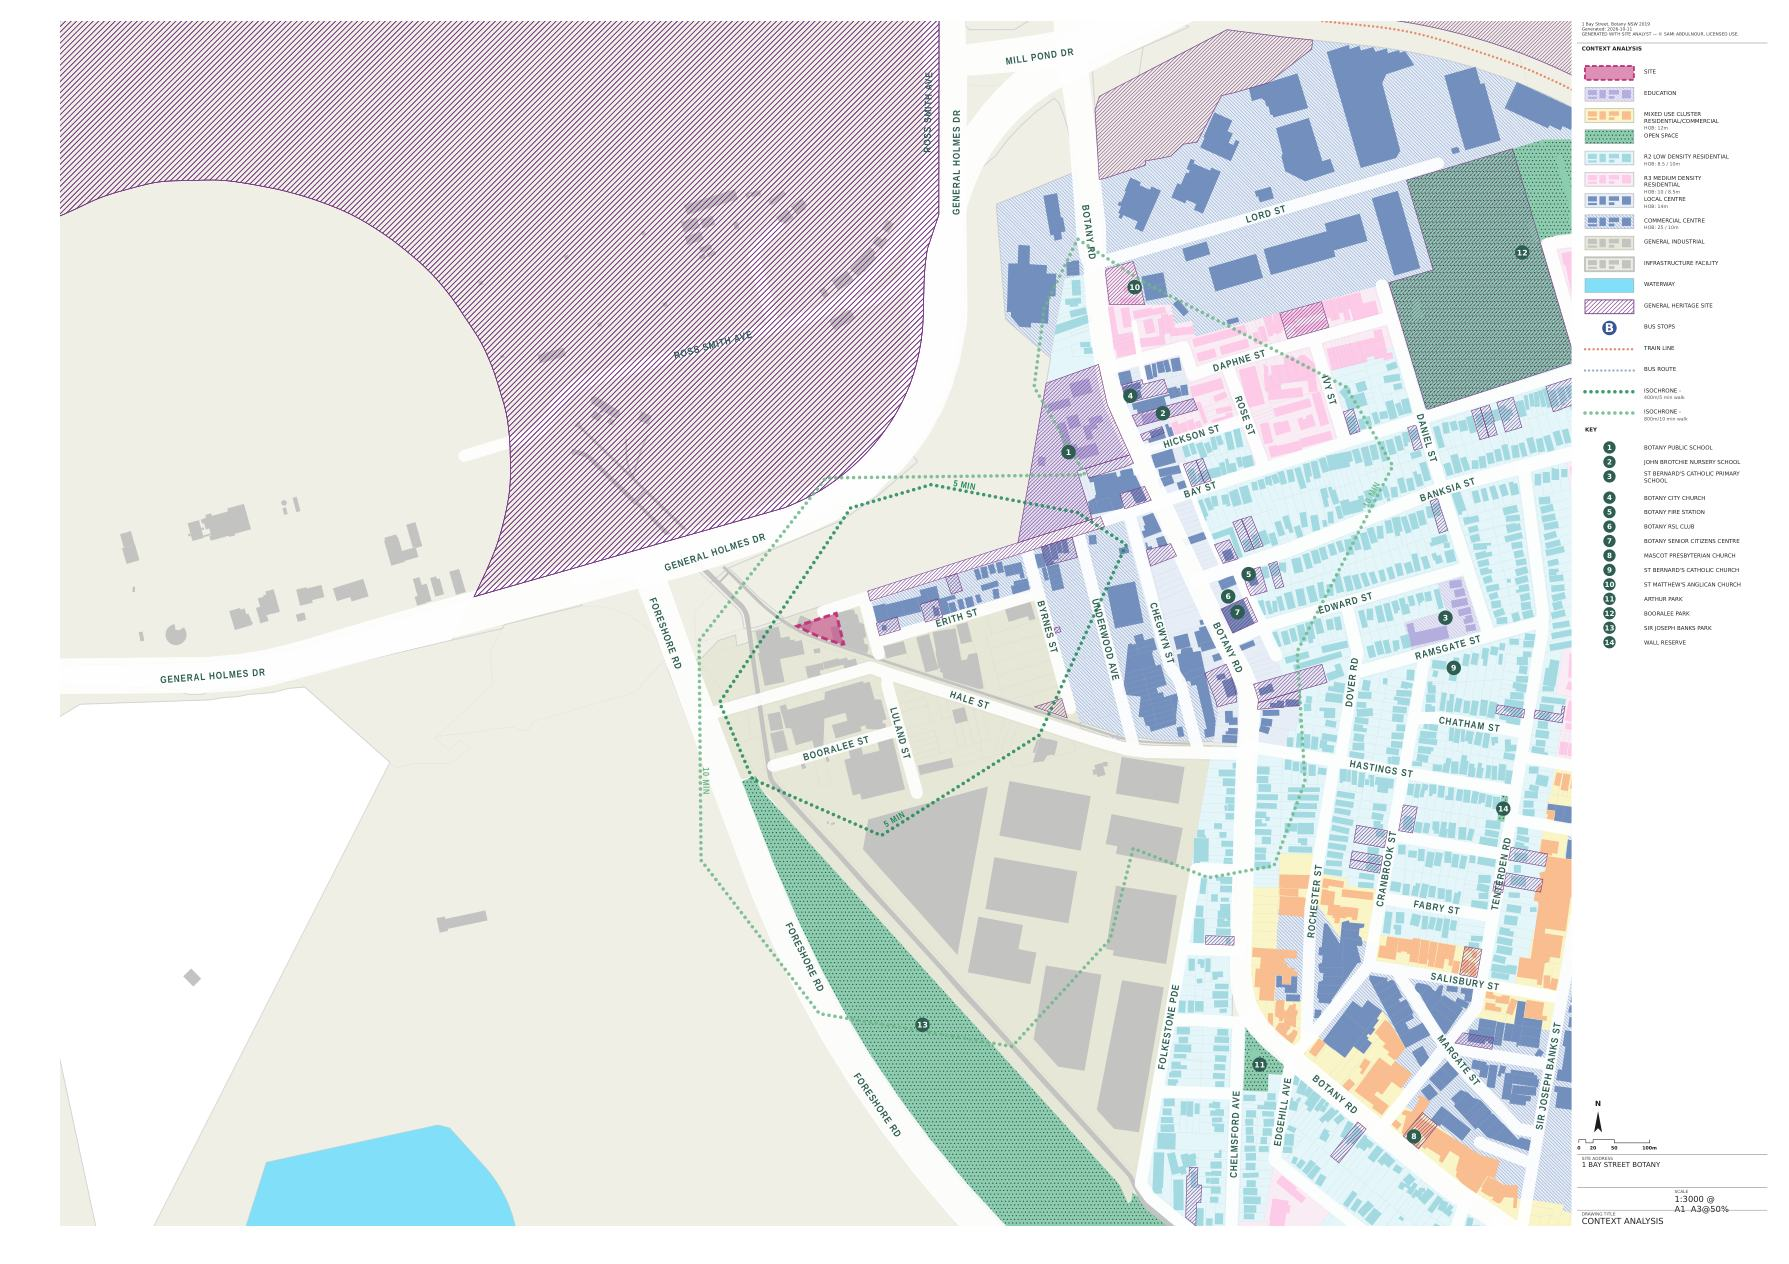
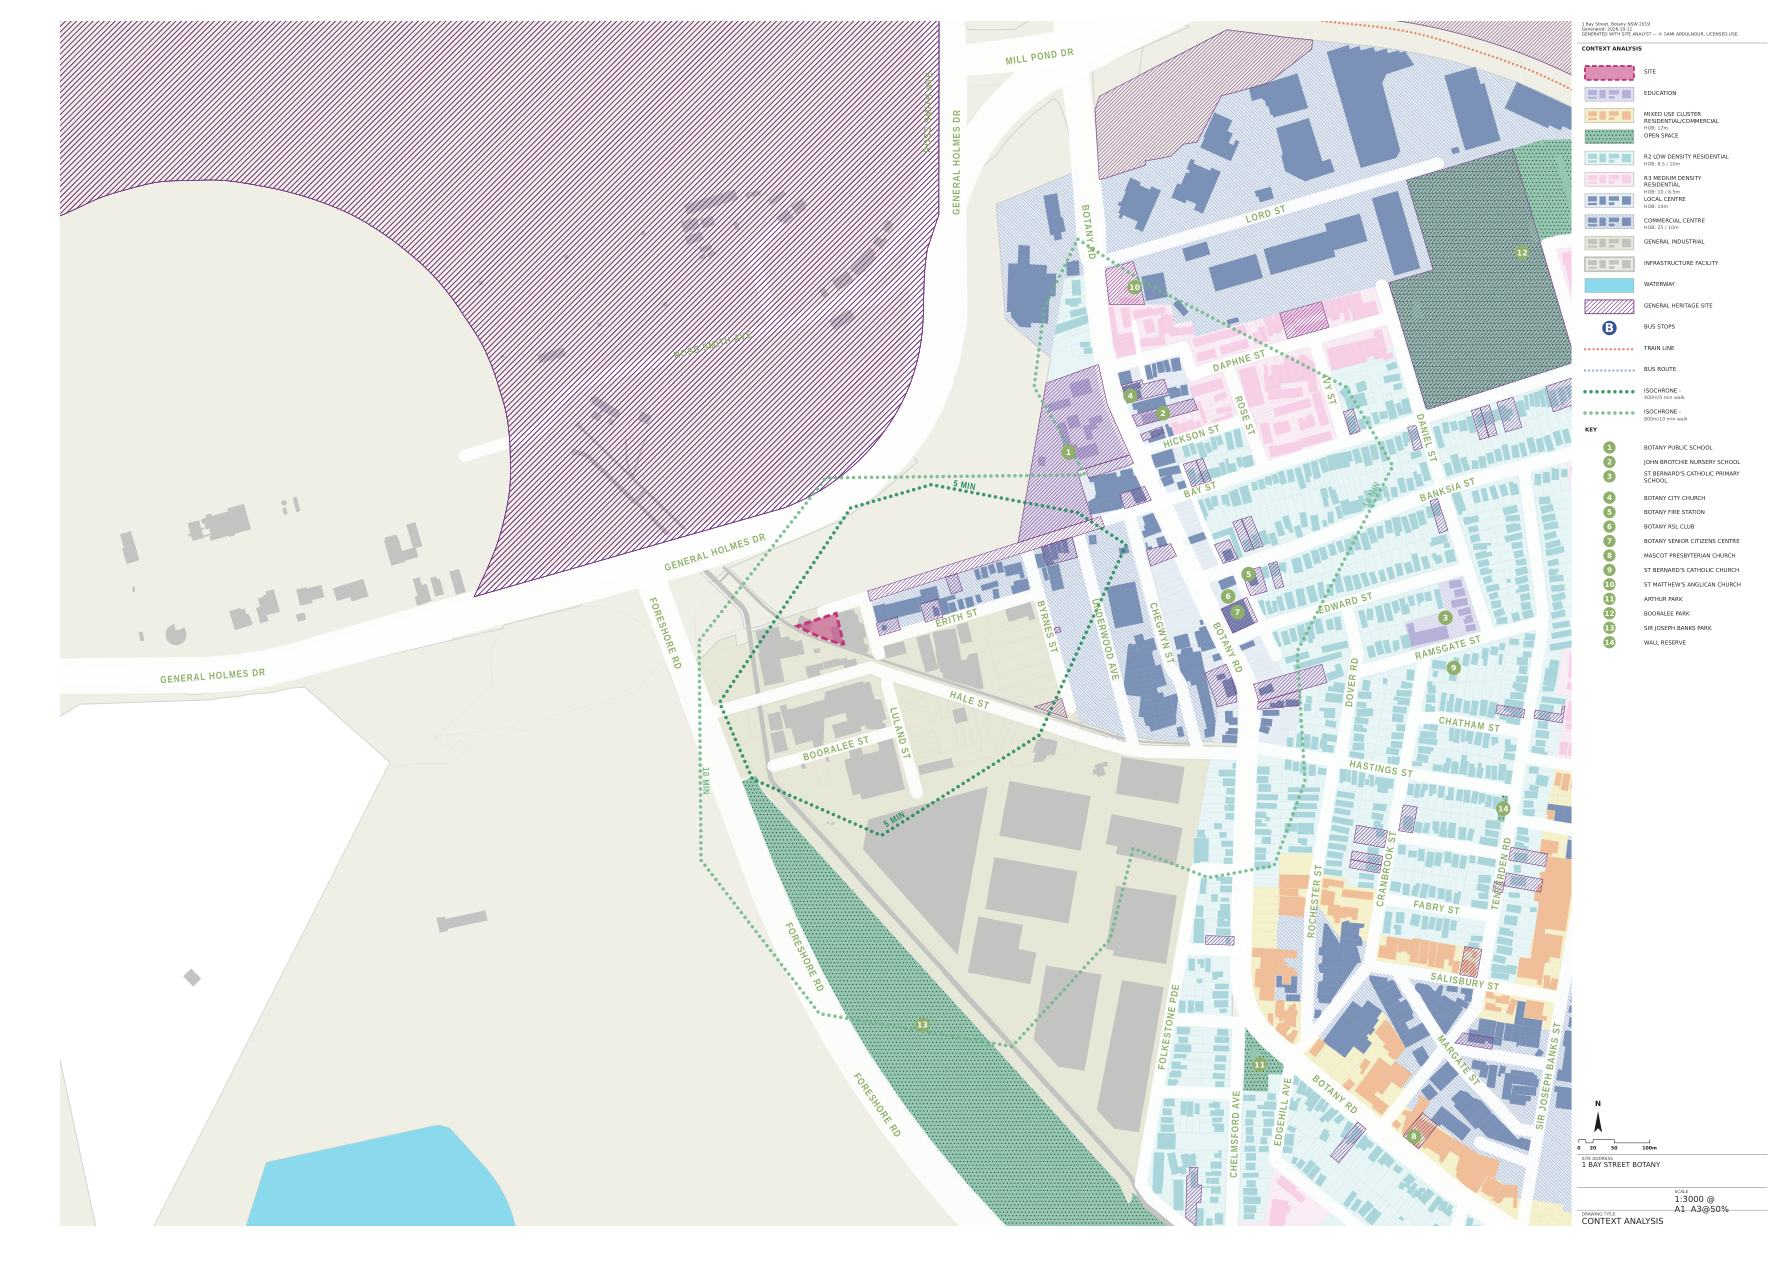
Kingfisher: ease the palette's saturation, light green street names and numbers
Every sampled colour loses about a fifth of its saturation, lightness kept.
Street names and the numbered place discs move from the deep green to a light
leaf green in the hue of the reference's fields.

Claude-Session: https://claude.ai/code/session_01RgQLhzf6Uiv4rCaYoXs4QT

diff --git a/src/render/template.ts b/src/render/template.ts
@@ -153,16 +153,18 @@ const GROTESK = "'DejaVu Sans', Verdana, 'Liberation Sans', sans-serif";
 // retail are the blue family (told apart by texture), the institutions
 // lavender, industry grey on stone, water the bright cyan, heritage a purple
 // cross-hatch.
+// The sampled colours are printed here with their saturation eased by about
+// a fifth (lightness kept), so the sheet sits a little quieter than the image.
 const F2 = {
-  pink: '#fdcae9', pinkGround: '#faecf4',
-  coral: '#fcbbab', coralGround: '#f8eae6',
-  orange: '#fabd90', orangeGround: '#fbe6d6', yellowGround: '#faf5c8',
-  mint: '#8dceb1',
-  cyan: '#a4dbe2', cyanGround: '#e5f7fa',
-  blue: '#7490bf', blueGround: '#e6eef8',
-  violet: '#b4aede', violetGround: '#e8e6f5',
+  pink: '#f8cfe8', pinkGround: '#f9edf4',
+  coral: '#f5bfb2', coralGround: '#f6ebe8',
+  orange: '#f0be9a', orangeGround: '#f8e6d9', yellowGround: '#f6f1cc',
+  mint: '#93c8b0',
+  cyan: '#aad7dc', cyanGround: '#e7f6f8',
+  blue: '#7b92b8', blueGround: '#e8eef6',
+  violet: '#b7b2da', violetGround: '#e9e7f4',
   grey: '#c4c5c1', stoneGround: '#e8e8d8',
-  water: '#81e0f9', magenta: '#c2367c', purple: '#753583', dots: '#1c1c1c',
+  water: '#8cdaee', magenta: '#c2367c', purple: '#753583', dots: '#1c1c1c',
 };
 
 const KINGFISHER_CATEGORIES: Category[] = [
@@ -223,7 +225,9 @@ export const TEMPLATES: Template[] = [
     categories: FLAMINGO_CATEGORIES },
   { id: 'kingfisher', label: 'Kingfisher', note: 'the masterplan palette: pale zone grounds with the buildings in each family\'s strong colour',
     font: GROTESK, streetFont: NARROW, textScale: 0.96,
-    ink: '#1c1c1c', streetInk: '#2f5f52', rule: '#8a8a8a',
+    ink: '#1c1c1c',
+    streetInk: '#8faf6a',   // a light leaf green, in the hue of the reference's fields
+    rule: '#8a8a8a',
     site: F2.magenta, dimension: '#56616b', wind: '#87959d', sun: '#efe8d4', road: F2.grey, water: F2.water,
     transit: '#365696', rail: '#e8835e', walk5: '#1f8a5a', walk10: '#6fb88c', busRoute: '#5b8fd6', heritage: F2.purple,
     isochrone: 'dotted', roundel: 'solid', busLine: 'dotted', railLine: 'dotted',

diff --git a/README.md b/README.md
@@ -489,8 +489,10 @@ open space the deep mint with black dots. The local and commercial centres and
 retail are the blue family, told apart by texture, the institutions lavender,
 industry grey on stone; water the bright cyan, the site and heritage in magenta
 and purple, the railway orange. The legend swatch shows a few buildings on
-their ground. Streets, labels, numbered places and the dotted lines are
-Flamingo's.
+their ground. The sampled colours are eased by about a fifth of their
+saturation so the sheet sits a little quieter than the image. Streets, numbered
+places and the dotted lines are Flamingo's, but the street names and the number
+discs are a light leaf green, in the hue of the reference's fields.
 
 **Heron** (`heron`) is the office sheet the restyle began from: the aerial
 under a light white veil with the tints at full strength over it (the palette
